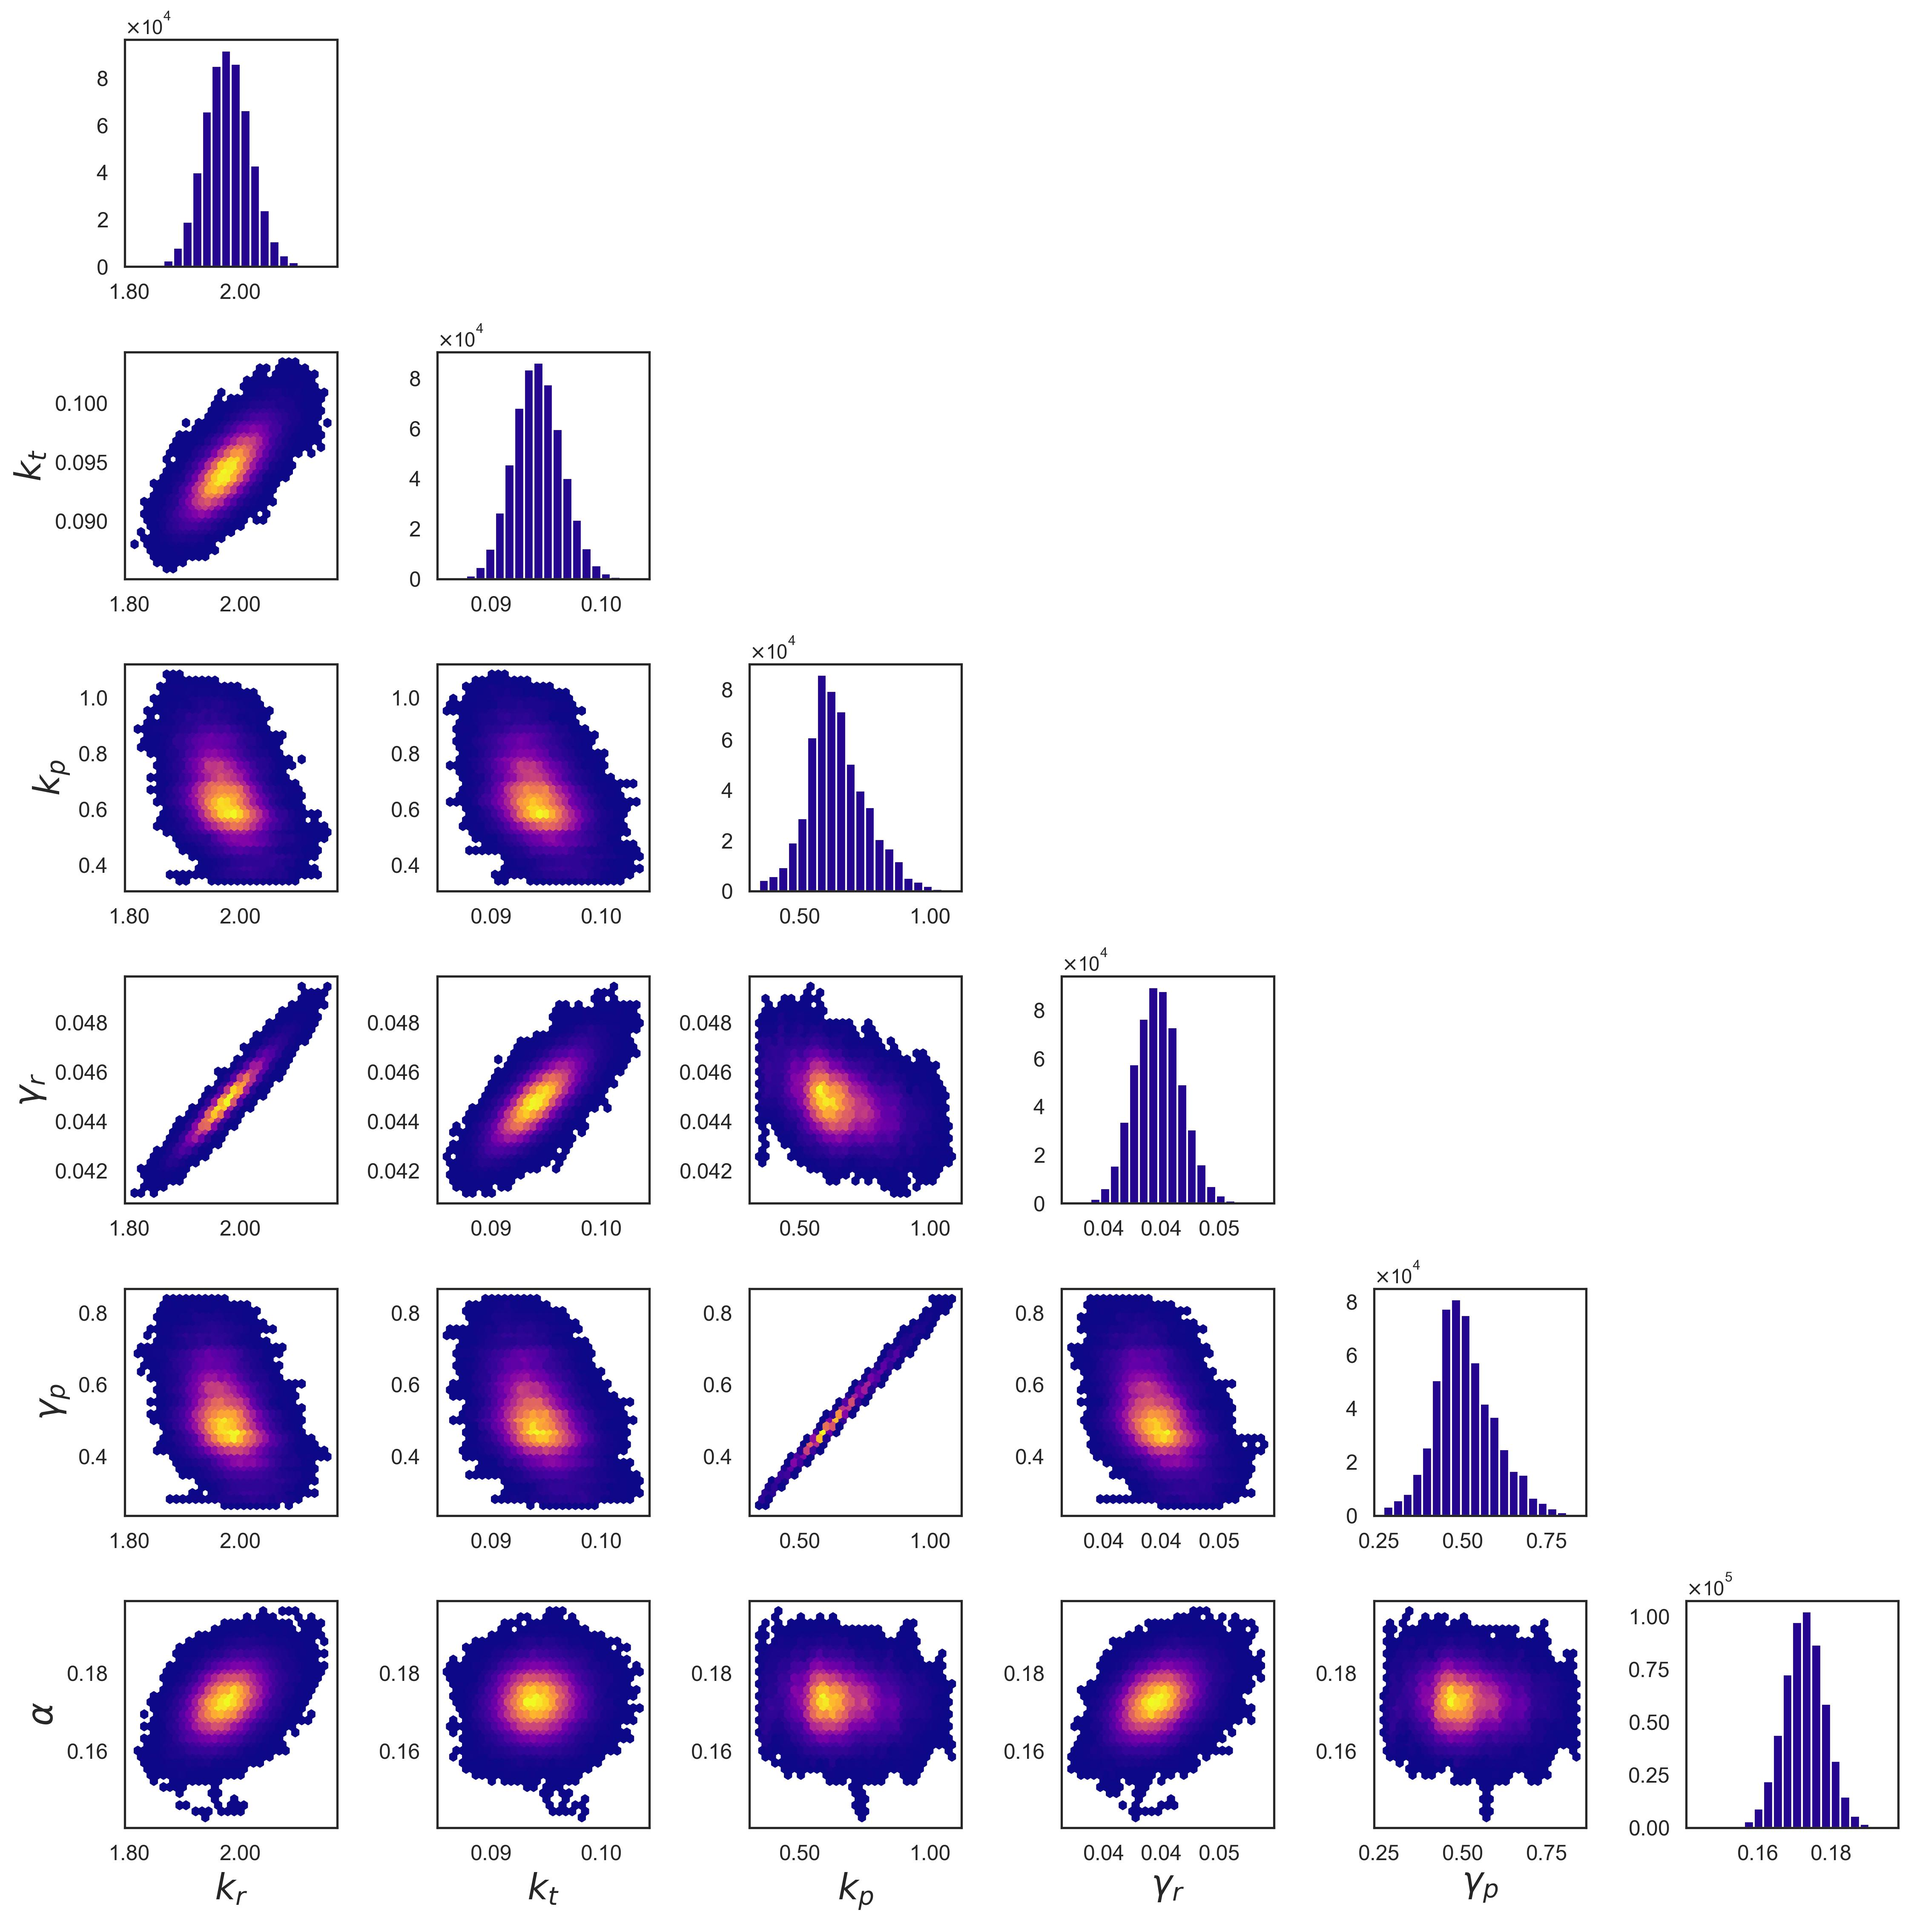
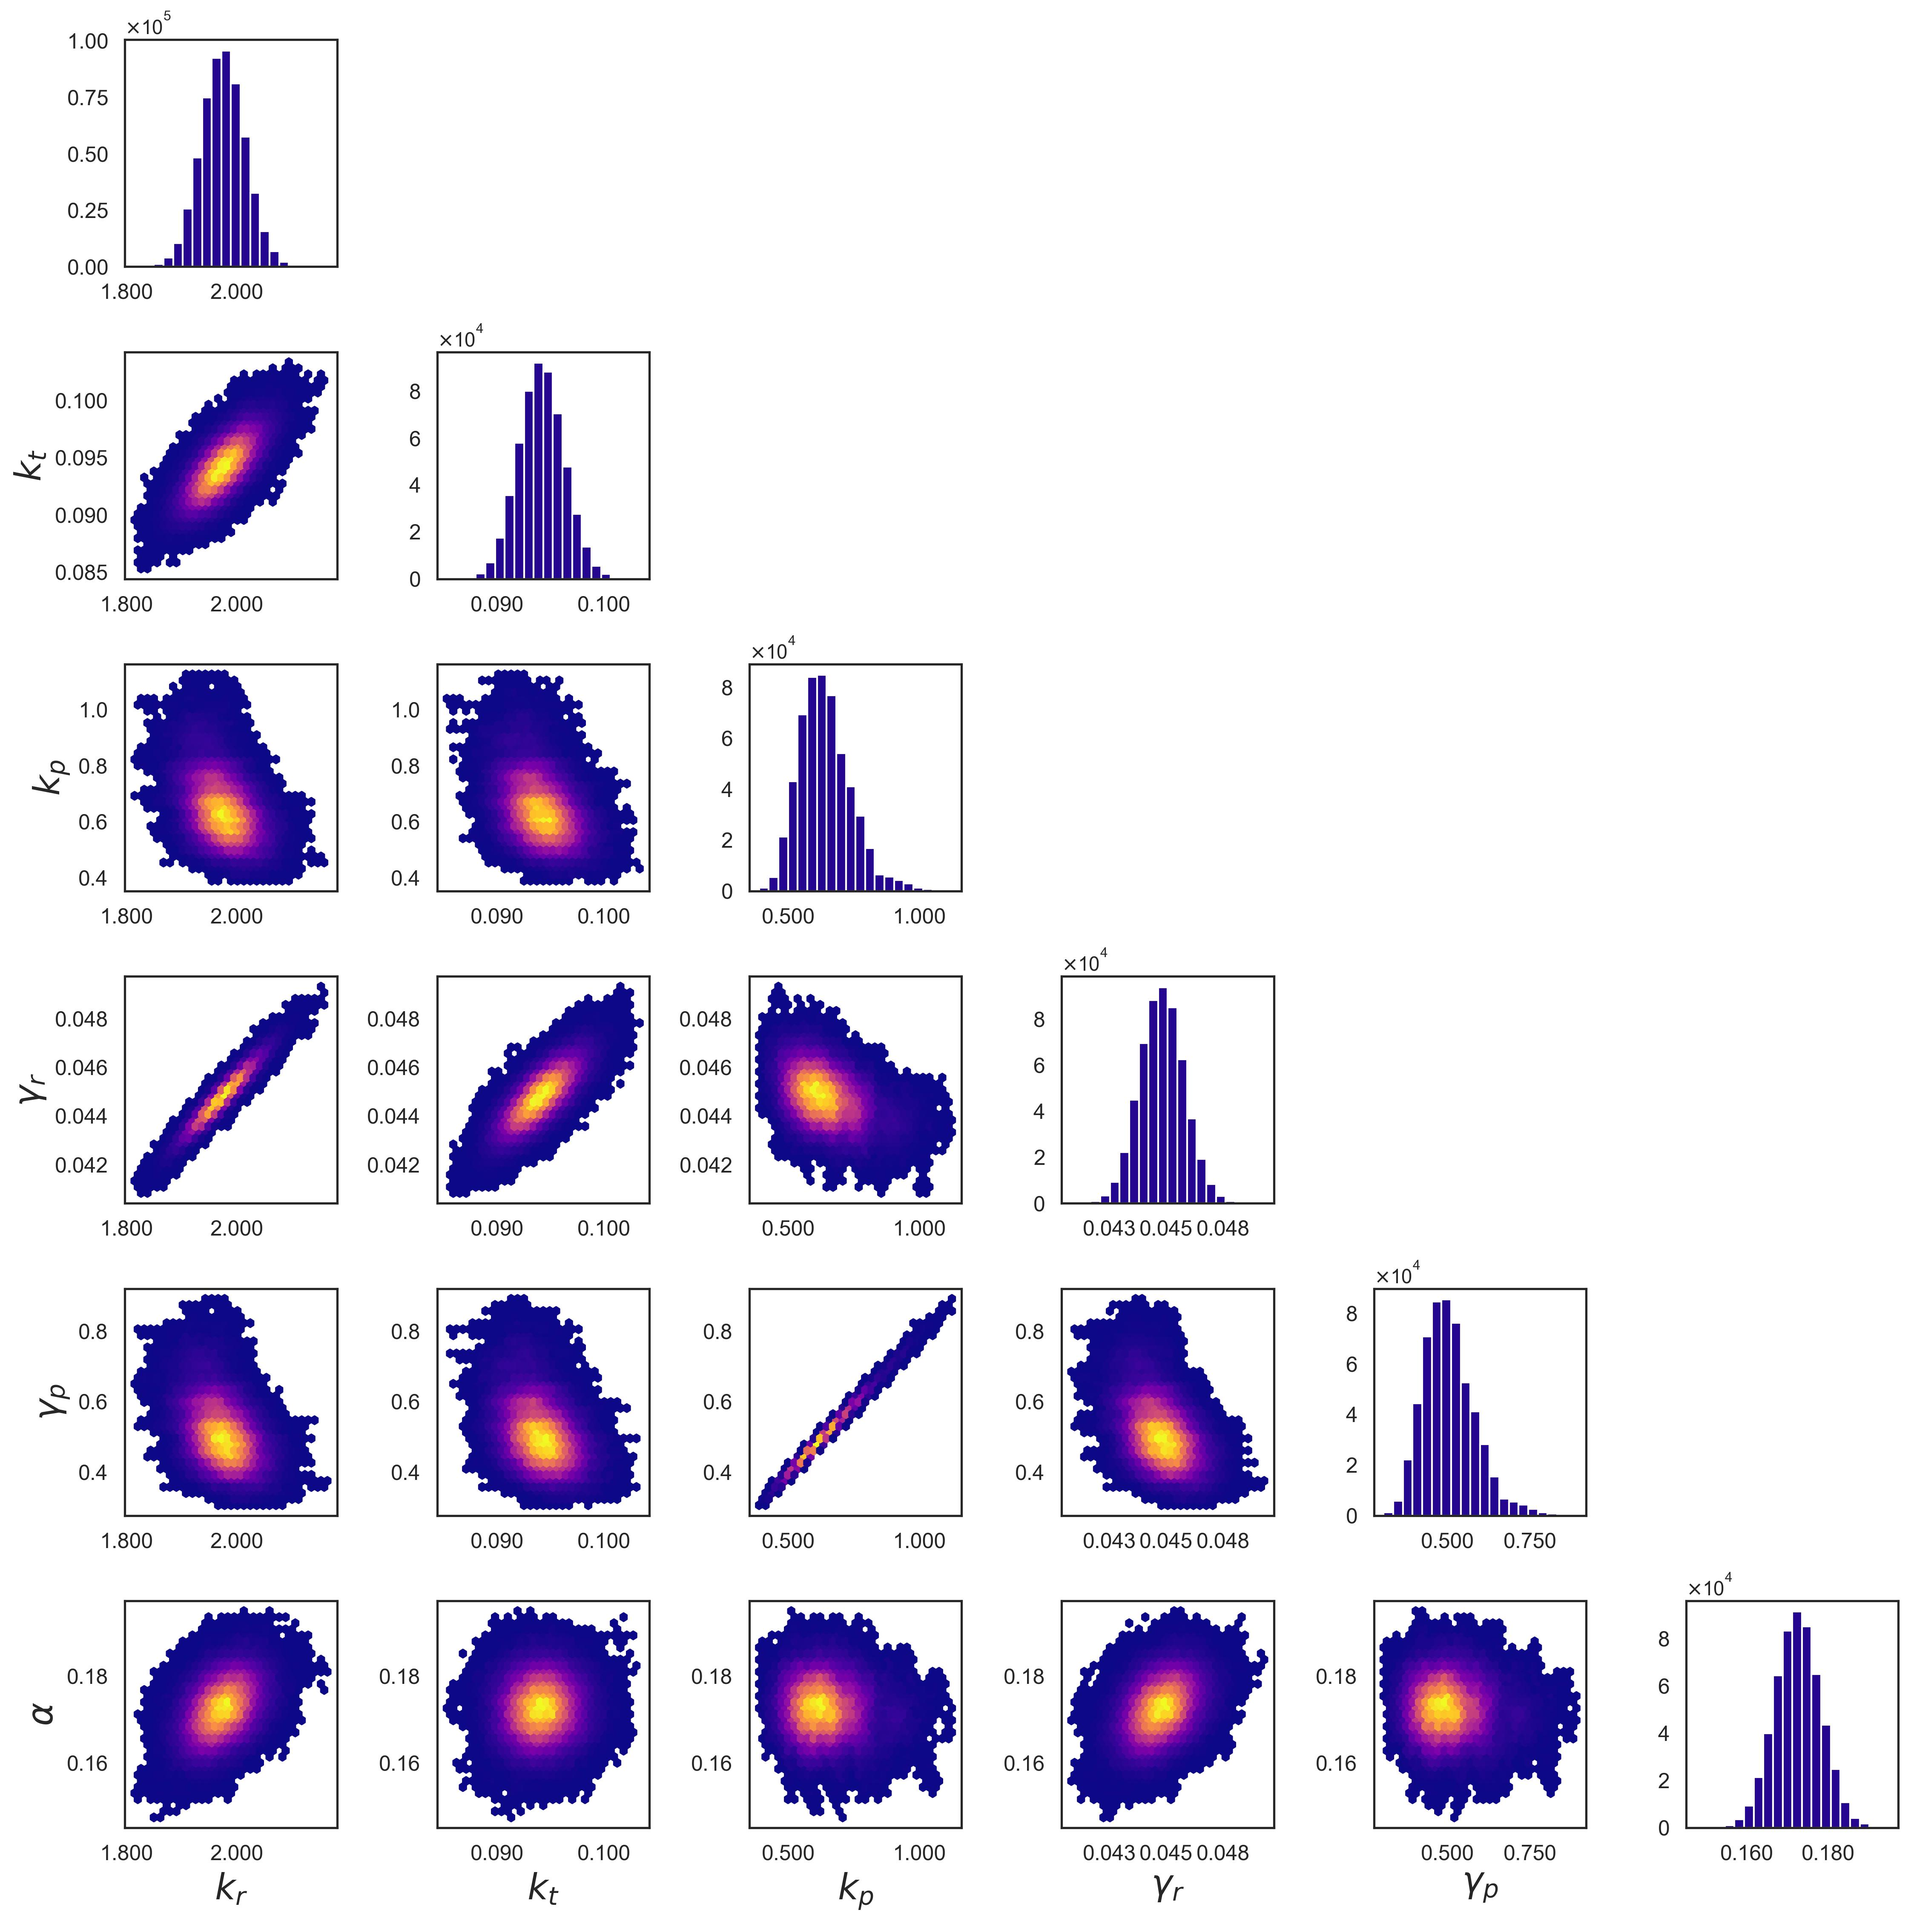
run 2

diff --git a/notebooks/parameter_estimation_constitutive.py b/notebooks/parameter_estimation_constitutive.py
@@ -305,7 +305,7 @@ for i in range(number_parameters):
     for j in range(i):
         axs[i, j].hexbin(chain_trunc[:, j], chain_trunc[:, i], gridsize=30, cmap='plasma', mincnt=1)
         axs[i, j].tick_params(axis='both', which='major', labelsize=12)
-        axs[i, j].xaxis.set_major_formatter(FormatStrFormatter('%.2f'))
+        axs[i, j].xaxis.set_major_formatter(FormatStrFormatter('%.3f'))
         if j == 0:
             # Use LaTeX for y-labels
             axs[i, j].set_ylabel(parameter_symbols[i], fontsize=20)
@@ -319,7 +319,7 @@ for i in range(number_parameters):
     # Use scientific notation for y-axis
     axs[i, i].yaxis.set_major_formatter(ticker.ScalarFormatter(useMathText=True))
     axs[i, i].ticklabel_format(style='sci', axis='y', scilimits=(0,0))
-    axs[i, i].xaxis.set_major_formatter(FormatStrFormatter('%.2f'))
+    axs[i, i].xaxis.set_major_formatter(FormatStrFormatter('%.3f'))
 # Save the figure
 fig.savefig(folder_outputs.joinpath("mcmc_2D.jpg"), dpi=300, bbox_inches="tight")
 plt.show()
